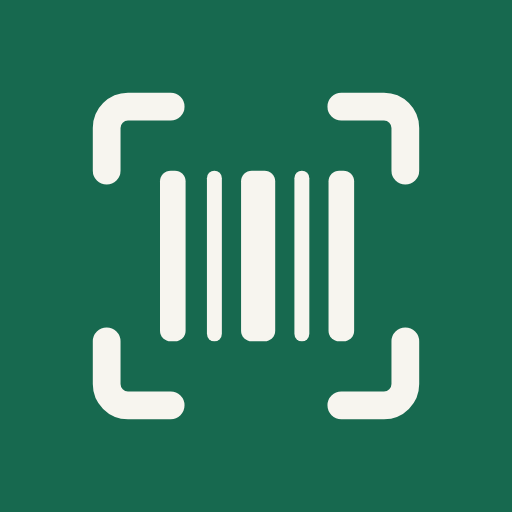
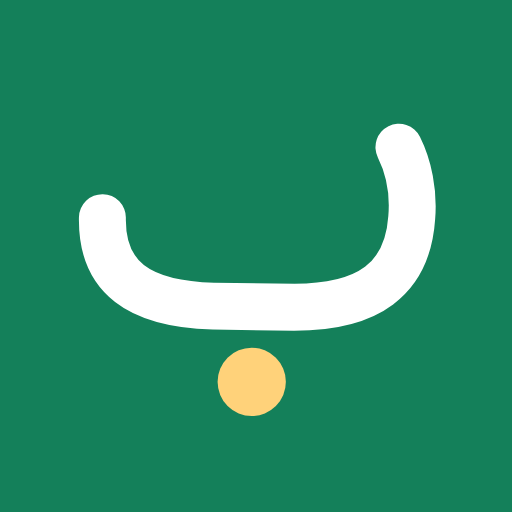
L'app devient Bayyin (بيّن)
Nouveau nom tiré du hadith « le halal est clair (bayyin) et le haram
est clair » (al-Bukhari 52, Muslim 1599), d'où viennent les trois
statuts de l'app. Icône dessinée à partir de la lettre ب. Sous-titre
« Scanner halal & santé » et section « Pourquoi Bayyin ? » dans les
réglages, dans les quatre langues.

Claude-Session: https://claude.ai/code/session_01WrMgraqCvHocsVVaEtQXfH

Changed region(s): [[0.1562, 0.1562, 0.875, 0.8438]]

diff --git a/public/index.html b/public/index.html
@@ -7,9 +7,9 @@
 <meta name="color-scheme" content="light only">
 <meta name="apple-mobile-web-app-capable" content="yes">
 <meta name="apple-mobile-web-app-status-bar-style" content="default">
-<meta name="apple-mobile-web-app-title" content="Halal Scan">
+<meta name="apple-mobile-web-app-title" content="Bayyin">
 <meta name="description" content="Scannez un produit alimentaire : halal, douteux ou haram selon votre école, note santé, additifs et meilleures alternatives.">
-<title>Halal Scan</title>
+<title>Bayyin — Halal & santé</title>
 <link rel="manifest" href="manifest.webmanifest">
 <link rel="icon" href="icon.svg" type="image/svg+xml">
 <link rel="apple-touch-icon" href="icon-180.png">
@@ -27,10 +27,11 @@
   <section class="view" id="view-scan" data-view="scan" aria-labelledby="h-home">
     <header class="home-head">
       <div class="brand">
-        <img src="icon.svg" alt="" width="36" height="36"><span data-i18n="app.name">Halal Scan</span>
+        <img src="icon.svg" alt="" width="36" height="36"><span class="brand-name"><span data-i18n="app.name">Bayyin</span><span class="brand-ar" lang="ar" dir="rtl">بيّن</span></span>
         <span class="demo-badge" id="demoBadge" data-i18n="app.demo" hidden>Démo</span>
         <span class="offline-badge" id="offlineBadge" hidden><i></i><span data-i18n="app.offline">Hors connexion</span></span>
       </div>
+      <p class="eyebrow" data-i18n="app.tagline"></p>
       <h1 id="h-home" data-i18n-html="home.h1_html">Halal, santé, additifs.<br>Tout en un scan.</h1>
       <p data-i18n="home.lead"></p>
     </header>
@@ -157,6 +158,12 @@
       <p class="muted" data-i18n="settings.offline_p"></p>
       <button class="btn btn-soft" type="button" id="offlineBtn"></button>
       <p class="muted small" id="offlineStatus" aria-live="polite"></p>
+    </section>
+
+    <section class="set-block why">
+      <h2 data-i18n="why.t"></h2>
+      <blockquote><p data-i18n="why.quote"></p><cite data-i18n="why.cite"></cite></blockquote>
+      <p class="muted" data-i18n="why.p"></p>
     </section>
 
     <section class="set-block">

diff --git a/public/style.css b/public/style.css
@@ -1,4 +1,4 @@
-/* Halal Scan — thème clair unique, pensé pour tout public :
+/* Bayyin — thème clair unique, pensé pour tout public :
    grands textes, beaucoup d'air, couleurs réservées aux verdicts. */
 
 :root{
@@ -81,6 +81,11 @@ h2,.sub{font-size:1.25rem;font-weight:800;letter-spacing:-.01em;margin:0}
 .home-head{display:flex;flex-direction:column;gap:12px;padding-top:6px}
 .brand{display:flex;align-items:center;gap:10px;font-weight:800;font-size:1.15rem;letter-spacing:-.01em}
 .brand img{border-radius:10px}
+.brand-name{display:flex;align-items:baseline;gap:8px}
+.brand-ar{font-family:'IBM Plex Sans Arabic',system-ui,sans-serif;font-weight:600;font-size:1.05rem;color:var(--brand)}
+.why blockquote{margin:0;padding:16px 18px;border-radius:var(--r-lg);background:var(--brand-soft);border-inline-start:4px solid var(--brand)}
+.why blockquote p{margin:0 0 6px;font-size:1.02rem;line-height:1.5;color:var(--fg)}
+.why cite{font-style:normal;font-size:.85rem;color:var(--brand-dark);font-weight:600}
 .demo-badge{font-size:.7rem;font-weight:800;letter-spacing:.08em;text-transform:uppercase;padding:4px 10px;border-radius:999px;background:var(--c-doubt-bg);color:#B5600A}
 .home-head h1{font-size:clamp(1.9rem,7.6vw,2.6rem);font-weight:800;line-height:1.08;letter-spacing:-.025em;margin:14px 0 0;text-wrap:balance}
 .home-head p{margin:0;color:var(--muted);font-size:1.05rem;max-width:40ch}
@@ -473,3 +478,5 @@ details.risk p.risk-src{padding-top:0}
 .add-ok{font-size:.8rem;font-weight:700;color:var(--c-cert)}
 .add-row .pill{font-size:.72rem}
 .muted-link{display:block;margin-top:10px;color:var(--muted);font-weight:500}
+.eyebrow{margin:10px 0 -8px;font-size:.8rem;font-weight:800;letter-spacing:.08em;text-transform:uppercase;color:var(--brand)}
+[dir="rtl"] .eyebrow{letter-spacing:0}

diff --git a/public/lib/i18n/ar.js b/public/lib/i18n/ar.js
@@ -1,5 +1,5 @@
 export default {
-  "app.name": "Halal Scan",
+  "app.name": "Bayyin",
   "app.demo": "تجريبي",
   "app.offline": "غير متصل",
   "home.h1_html": "حلال، صحة، مضافات.<br>كل ذلك بمسحة واحدة.",
@@ -180,7 +180,7 @@ export default {
   "sheet.fav_added": "أضيف إلى المفضلة",
   "sheet.fav_removed": "أزيل من المفضلة",
   "sheet.scan_again": "امسح منتجاً آخر",
-  "sheet.share_text": "{name}: {status}{health} (Halal Scan)",
+  "sheet.share_text": "{name}: {status}{health} (Bayyin)",
   "sheet.share_health": "، الصحة {n}/100",
   "product.unnamed": "منتج بلا اسم",
   "detail.halal": "الحلال",
@@ -427,4 +427,10 @@ export default {
   "detail.report": "الإبلاغ عن خطأ في هذا المنتج ↗",
   "report.title": "حكم خاطئ: {name} ({code})",
   "report.body": "المنتج: {name}\nالرمز الشريطي: {code}\nالحكم المعروض: {status}\nالإعداد: {school}\nصفحة Open Food Facts: {url}\n\nما الخطأ:\n",
+  // ---------- nom ----------
+  "app.tagline": "ماسح الحلال والصحة",
+  "why.t": "لماذا «بيّن»؟",
+  "why.quote": "«إنّ الحلال بيّن، وإنّ الحرام بيّن، وبينهما مشتبهات لا يعلمهنّ كثير من الناس.»",
+  "why.cite": "حديث رواه البخاري (52) ومسلم (1599)",
+  "why.p": "«بيّن» تعني الواضح. والأحكام الثلاثة في التطبيق، حلال ومشبوه وحرام، مأخوذة من هذا الحديث: أن نوضّح ما هو واضح، وأن ننبّه بأمانة على ما ليس كذلك.",
 };

diff --git a/public/lib/i18n/fr.js b/public/lib/i18n/fr.js
@@ -1,7 +1,7 @@
 // Français (langue de référence : toute clé ajoutée ici doit exister dans en, ar et tr).
 export default {
   // ---------- général ----------
-  "app.name": "Halal Scan",
+  "app.name": "Bayyin",
   "app.demo": "Démo",
   "app.offline": "Hors connexion",
   "home.h1_html": "Halal, santé, additifs.<br>Tout en un scan.",
@@ -188,7 +188,7 @@ export default {
   "sheet.fav_added": "Ajouté aux favoris",
   "sheet.fav_removed": "Retiré des favoris",
   "sheet.scan_again": "Scanner un autre produit",
-  "sheet.share_text": "{name} : {status}{health} (Halal Scan)",
+  "sheet.share_text": "{name} : {status}{health} (Bayyin)",
   "sheet.share_health": ", santé {n}/100",
   "product.unnamed": "Produit sans nom",
   "detail.halal": "Halal",
@@ -441,4 +441,10 @@ export default {
   "detail.report": "Signaler une erreur sur ce produit ↗",
   "report.title": "Erreur de classement : {name} ({code})",
   "report.body": "Produit : {name}\nCode-barres : {code}\nVerdict affiché : {status}\nRéglage : {school}\nFiche Open Food Facts : {url}\n\nCe qui ne va pas :\n",
+  // ---------- nom ----------
+  "app.tagline": "Scanner halal & santé",
+  "why.t": "Pourquoi « Bayyin » ?",
+  "why.quote": "« Le halal est clair (bayyin) et le haram est clair, et entre les deux se trouvent des choses douteuses que beaucoup de gens ne connaissent pas. »",
+  "why.cite": "Hadith rapporté par al-Bukhari (52) et Muslim (1599)",
+  "why.p": "Bayyin signifie « clair » en arabe. Les trois statuts de l'app, halal, douteux et haram, viennent de ce hadith : rendre clair ce qui l'est, et signaler honnêtement ce qui ne l'est pas.",
 };

diff --git a/public/lib/i18n/tr.js b/public/lib/i18n/tr.js
@@ -1,5 +1,5 @@
 export default {
-  "app.name": "Halal Scan",
+  "app.name": "Bayyin",
   "app.demo": "Demo",
   "app.offline": "Çevrimdışı",
   "home.h1_html": "Helal, sağlık, katkı maddeleri.<br>Tek taramada.",
@@ -180,7 +180,7 @@ export default {
   "sheet.fav_added": "Favorilere eklendi",
   "sheet.fav_removed": "Favorilerden çıkarıldı",
   "sheet.scan_again": "Başka ürün tara",
-  "sheet.share_text": "{name}: {status}{health} (Halal Scan)",
+  "sheet.share_text": "{name}: {status}{health} (Bayyin)",
   "sheet.share_health": ", sağlık {n}/100",
   "product.unnamed": "İsimsiz ürün",
   "detail.halal": "Helal",
@@ -427,4 +427,10 @@ export default {
   "detail.report": "Bu üründe hata bildir ↗",
   "report.title": "Hatalı karar: {name} ({code})",
   "report.body": "Ürün: {name}\nBarkod: {code}\nGösterilen karar: {status}\nAyar: {school}\nOpen Food Facts sayfası: {url}\n\nSorun nedir:\n",
+  // ---------- nom ----------
+  "app.tagline": "Helal ve sağlık tarayıcısı",
+  "why.t": "Neden “Bayyin”?",
+  "why.quote": "“Helal bellidir (beyyin), haram da bellidir. İkisinin arasında ise insanların çoğunun bilmediği şüpheli şeyler vardır.”",
+  "why.cite": "Buhârî (52) ve Müslim (1599) tarafından rivayet edilen hadis",
+  "why.p": "Bayyin, Arapçada “açık, belli” demektir. Uygulamanın üç durumu, helal, şüpheli ve haram, bu hadisten gelir: açık olanı açık kılmak, açık olmayanı dürüstçe belirtmek.",
 };

diff --git a/public/lib/i18n/en.js b/public/lib/i18n/en.js
@@ -1,5 +1,5 @@
 export default {
-  "app.name": "Halal Scan",
+  "app.name": "Bayyin",
   "app.demo": "Demo",
   "app.offline": "Offline",
   "home.h1_html": "Halal, health, additives.<br>All in one scan.",
@@ -180,7 +180,7 @@ export default {
   "sheet.fav_added": "Added to favourites",
   "sheet.fav_removed": "Removed from favourites",
   "sheet.scan_again": "Scan another product",
-  "sheet.share_text": "{name}: {status}{health} (Halal Scan)",
+  "sheet.share_text": "{name}: {status}{health} (Bayyin)",
   "sheet.share_health": ", health {n}/100",
   "product.unnamed": "Unnamed product",
   "detail.halal": "Halal",
@@ -427,4 +427,10 @@ export default {
   "detail.report": "Report a mistake on this product ↗",
   "report.title": "Wrong verdict: {name} ({code})",
   "report.body": "Product: {name}\nBarcode: {code}\nVerdict shown: {status}\nSetting: {school}\nOpen Food Facts page: {url}\n\nWhat is wrong:\n",
+  // ---------- nom ----------
+  "app.tagline": "Halal & health scanner",
+  "why.t": "Why “Bayyin”?",
+  "why.quote": "“The halal is clear (bayyin) and the haram is clear, and between them are doubtful matters that many people do not know.”",
+  "why.cite": "Hadith narrated by al-Bukhari (52) and Muslim (1599)",
+  "why.p": "Bayyin means “clear” in Arabic. The app's three statuses, halal, doubtful and haram, come from this hadith: make clear what is clear, and honestly flag what is not.",
 };

diff --git a/test/server.test.js b/test/server.test.js
@@ -38,7 +38,7 @@ test("GET /api/product/:code renvoie le verdict", async () => {
   assert.equal(body.product.verdict.status, "haram");
   assert.equal(body.product.name, "Saucisson sec pur porc");
   assert.match(calls.at(-1).url, /api\/v2\/product\/3019081100148\.json\?fields=/);
-  assert.match(calls.at(-1).ua, /HalalScan/);
+  assert.match(calls.at(-1).ua, /Bayyin/);
 });
 
 test("le cache évite un second appel à Open Food Facts", async () => {
@@ -66,10 +66,10 @@ test("recherche par nom", async () => {
 test("sert le frontend et bloque la sortie du dossier public", async () => {
   const home = await fetch(base + "/");
   assert.equal(home.status, 200);
-  assert.match(await home.text(), /<title>Halal Scan<\/title>/);
+  assert.match(await home.text(), /<title>Bayyin — Halal & santé<\/title>/);
   const escape = await fetch(base + "/..%2fpackage.json");
   assert.ok(escape.status >= 400);
-  assert.doesNotMatch(await escape.text(), /"halal-scan"/);
+  assert.doesNotMatch(await escape.text(), /"bayyin"/);
 });
 
 test("Open Food Facts en panne -> 502 avec message clair", async () => {

diff --git a/src/server.js b/src/server.js
@@ -17,7 +17,7 @@ import { FIELDS, present } from "../public/lib/off.js";
 const ROOT = fileURLToPath(new URL("../public/", import.meta.url));
 const OFF_BASE = process.env.OFF_BASE || "https://world.openfoodfacts.org";
 // Open Food Facts demande un User-Agent identifiant l'application.
-const USER_AGENT = process.env.OFF_USER_AGENT || "HalalScan/0.1 (projet personnel)";
+const USER_AGENT = process.env.OFF_USER_AGENT || "Bayyin/0.1 (https://github.com/agozel5/halal-scan)";
 
 const CACHE_TTL_MS = 24 * 3600 * 1000;
 const CACHE_MAX = 2000;
@@ -156,6 +156,6 @@ if (process.argv[1] && fileURLToPath(import.meta.url) === process.argv[1]) {
   const port = Number(process.env.PORT) || 3000;
   createApp().listen(port, () => {
     const mode = isOfflineFlag() ? " (mode hors-ligne, produits d'exemple)" : "";
-    console.log(`Halal Scan prêt sur http://localhost:${port}${mode}`);
+    console.log(`Bayyin prêt sur http://localhost:${port}${mode}`);
   });
 }

diff --git a/public/sw.js b/public/sw.js
@@ -6,7 +6,7 @@
 // - Fiches produits Open Food Facts : réseau d'abord ; au-delà de 4 s ou hors ligne,
 //   la fiche en cache. Le « pack » de produits populaires est rangé dans le même cache.
 
-const VERSION = "2026-10-08-2";
+const VERSION = "2026-10-08-3";
 const APP_CACHE = `hs-app-${VERSION}`;
 const CDN_CACHE = "hs-cdn-v1";
 const PRODUCT_CACHE = "hs-products-v1";

diff --git a/README.md b/README.md
@@ -1,4 +1,12 @@
-# Halal Scan
+# Bayyin — بيّن
+
+**Scanner halal & santé.** Gratuit, sans publicité, sans pistage.
+
+> « Le halal est clair (*bayyin*) et le haram est clair, et entre les deux se trouvent des
+> choses douteuses. » — hadith rapporté par al-Bukhari (52) et Muslim (1599)
+
+*Bayyin* signifie « clair » en arabe : les trois statuts de l'app (halal, douteux, haram)
+viennent de ce hadith. L'icône reprend la lettre ب, initiale du mot.
 
 Web app qui scanne le code-barres d'un produit alimentaire et indique :
 
